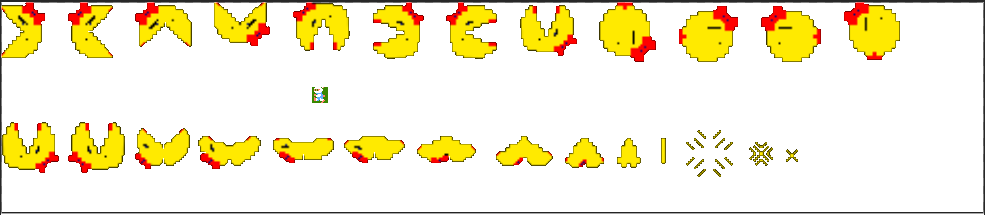
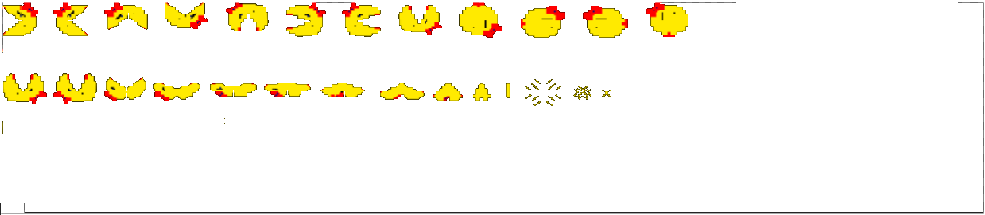
spritesheet update nº 4526238539834781390424

diff --git a/Player.cs b/Player.cs
@@ -55,7 +55,7 @@ namespace MsPacMan
             
             origin = targetPosition = position;
 
-            texture = game1.SpriteSheetPlayer;
+            texture = game1.SpriteSheet;
             
             spriteBatch = game1.SpriteBatch;
             
@@ -65,10 +65,10 @@ namespace MsPacMan
             
             spritePositions = new Dictionary<Direction, Vector2>();
 
-            spritePositions[Direction.Right] = new Vector2(1, 1);
-            spritePositions[Direction.Left] = new Vector2(1, 0);
-            spritePositions[Direction.Up] = new Vector2(4, 1);
-            spritePositions[Direction.Down] = new Vector2(4, 0);
+            spritePositions[Direction.Right] = new Vector2(3.2f, 1);
+            spritePositions[Direction.Left] = new Vector2(0, 1);
+            spritePositions[Direction.Up] = new Vector2(2, 0);
+            spritePositions[Direction.Down] = new Vector2(5.2f, 0);
         }
         #endregion
 
@@ -139,7 +139,8 @@ namespace MsPacMan
                     }
                     if ((board.board[targetPosition.X / Game1.outputTileSize,
                         targetPosition.Y / Game1.outputTileSize] != ' ') && (board.board[targetPosition.X / Game1.outputTileSize,
-                        targetPosition.Y / Game1.outputTileSize] != '-'))
+                        targetPosition.Y / Game1.outputTileSize] != '-') && (board.board[targetPosition.X / Game1.outputTileSize,
+                        targetPosition.Y / Game1.outputTileSize] != '?'))
                     {
                         targetPosition = position;
                     }
@@ -172,8 +173,8 @@ namespace MsPacMan
                 new Rectangle(position, new Point(Game1.outputTileSize)),
                 new Rectangle(
 
-                    ((spritePositions[direction] + Vector2.UnitX * frame) * 16).ToPoint(),
-                    new Point(0,0)
+                    ((spritePositions[direction] + Vector2.UnitX * frame) * 31).ToPoint(),
+                    new Point(30)
 
                     ),
                 Color.White
